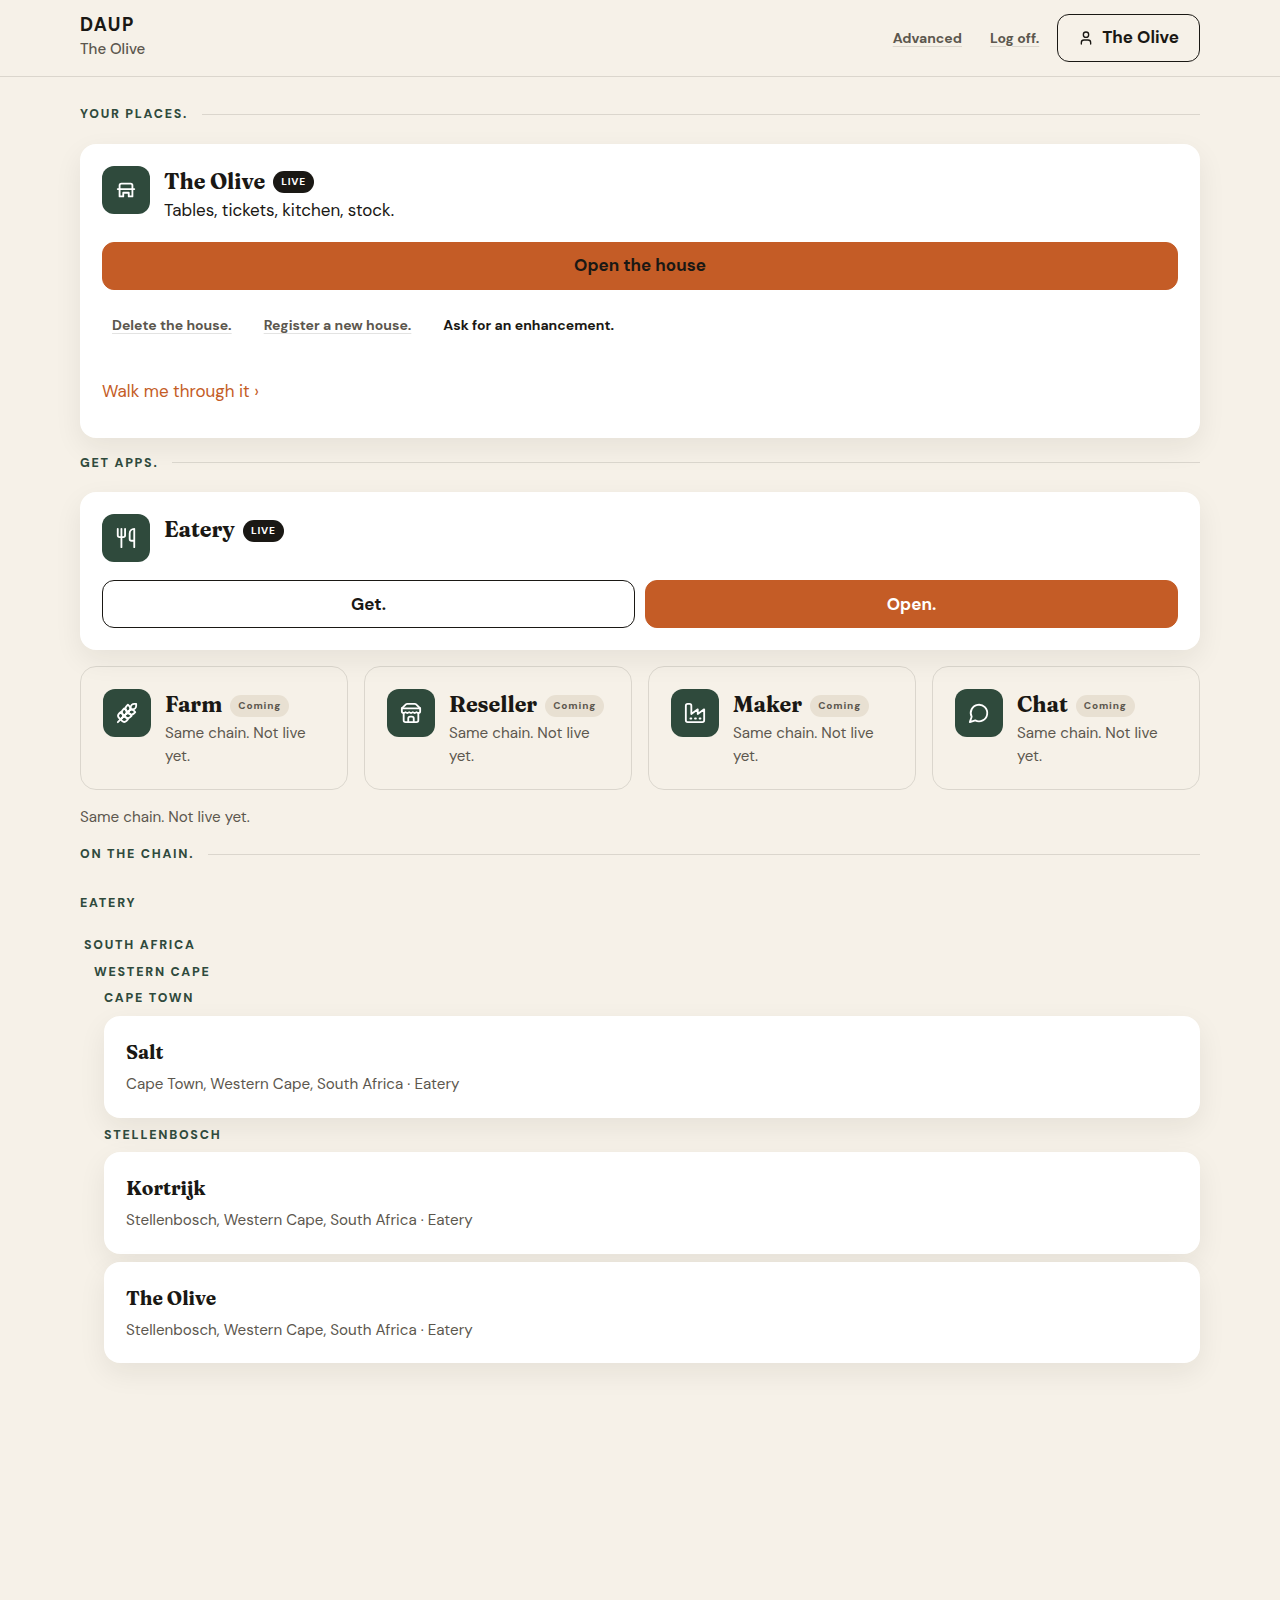
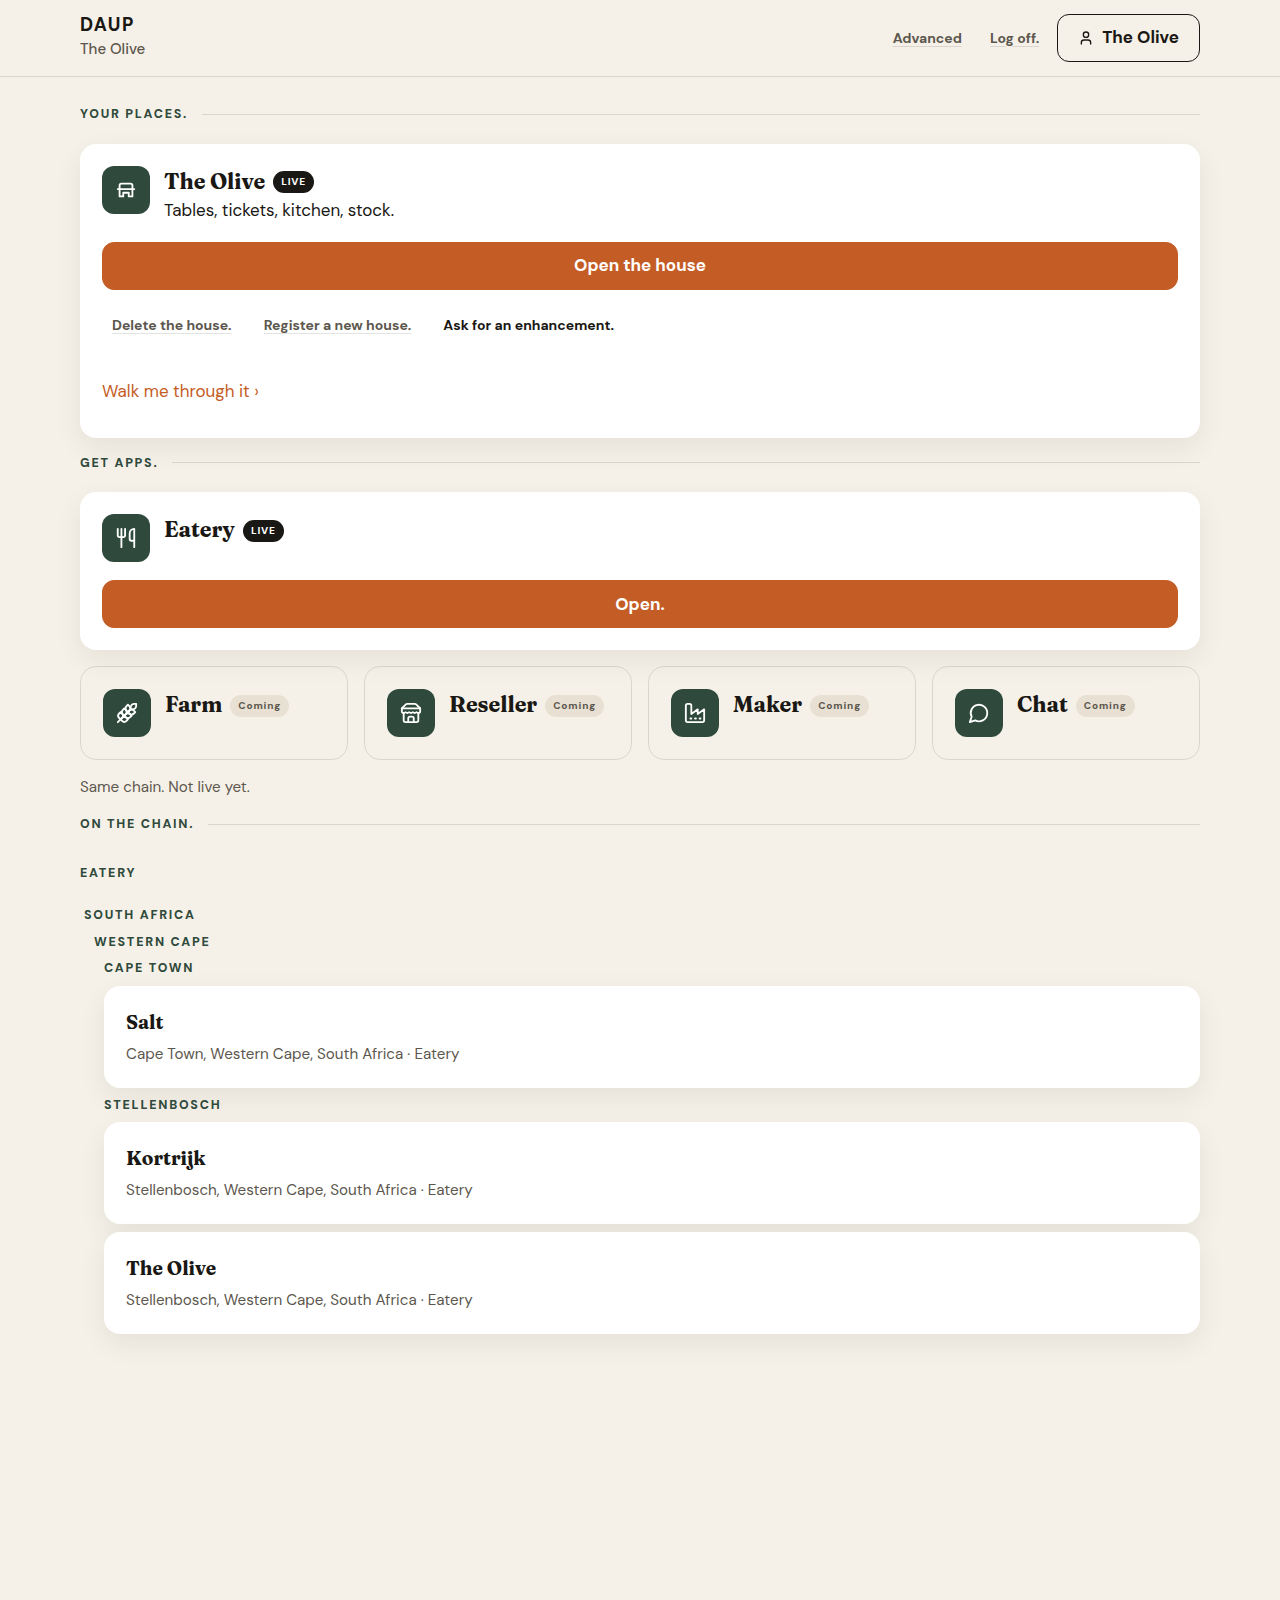
Hub UX punches: drop meta, white menu, Open. when held
Public card is Back / name / line / See the menu. / Reserve a table.
See the menu. is white on terracotta. Held live apps show Open. only.
Same chain. Not live yet. once under Coming.

diff --git a/daup-frontend-edge/src/components/HubHome.test.tsx b/daup-frontend-edge/src/components/HubHome.test.tsx
@@ -4,6 +4,7 @@ import { createRoot } from 'react-dom/client';
 import { act } from 'react';
 import { Simulate } from 'react-dom/test-utils';
 import { SubscribedAppsView } from './SubscribedAppsView';
+import { GetAppsSection } from './GetApps';
 import { UserProfileProvider } from '../context/UserProfileContext';
 import {
   saveIdentityVault,
@@ -159,9 +160,10 @@ describe('hub home after email', () => {
     expect(container.textContent).toContain(YOUR_PLACES_KICKER);
     const shop = container.querySelector('[data-testid="get-apps"]');
     expect(shop?.textContent).toContain(GET_APPS_KICKER);
-    expect(shop?.textContent).toContain(GET_LABEL);
     expect(shop?.textContent).toContain(OPEN_LABEL);
     expect(shop?.querySelector('[data-testid="shop-app-eatery"]')?.textContent).toContain('Eatery');
+    expect(shop?.querySelector('[data-testid="get-app-eatery"]')).toBeNull();
+    expect(shop?.querySelector('[data-testid="open-app-eatery"]')?.textContent).toBe(OPEN_LABEL);
     expect(shop?.querySelector('[data-testid="subscribe-app-eatery"]')).toBeNull();
     const other = container.querySelector('[data-testid="other-apps"]');
     expect(other?.textContent).toContain('Farm');
@@ -268,8 +270,13 @@ describe('hub home after email', () => {
     const menu = container.querySelector('[data-testid="see-the-menu"]') as HTMLAnchorElement | null;
     const reserve = container.querySelector('[data-testid="reserve-a-table"]') as HTMLAnchorElement | null;
     expect(card?.textContent).toContain('The Olive');
+    expect(card?.textContent).toContain('Stellenbosch, Western Cape, South Africa · Eatery');
+    expect(card?.textContent).toContain('Back.');
+    expect(card?.textContent).not.toContain('Open the public card.');
+    expect(card?.textContent).not.toContain('Pay at the table.');
     expect(menu?.textContent).toBe(SEE_THE_MENU_LABEL);
     expect(reserve?.textContent).toBe(RESERVE_A_TABLE_LABEL);
+    expect(menu?.className).toContain('btn-primary');
     expect(menu?.getAttribute('href')).toBe('https://eatout.daup.co.za/place/the-olive#menu');
     expect(reserve?.getAttribute('href')).toBe('https://eatout.daup.co.za/place/the-olive#book');
     expect(menu?.getAttribute('data-eatout-id')).toBe('the-olive');
@@ -310,11 +317,34 @@ describe('hub home after email', () => {
     expect(other?.textContent).not.toMatch(/Subscribe/i);
     expect(other?.textContent).not.toMatch(/Subscribed/i);
     expect(container.querySelector('[data-testid="coming-app-farm"]')?.textContent).not.toMatch(/Subscribe/i);
-    expect(container.querySelector('[data-testid="shop-app-eatery"]')?.textContent).toContain(GET_LABEL);
+    expect(container.querySelector('[data-testid="coming-app-farm"]')?.textContent).not.toContain(SAME_CHAIN_CAPTION);
     expect(container.querySelector('[data-testid="shop-app-eatery"]')?.textContent).toContain(OPEN_LABEL);
+    expect(container.querySelector('[data-testid="shop-app-eatery"]')?.textContent).not.toContain(GET_LABEL);
+    expect(container.querySelector('[data-testid="get-app-eatery"]')).toBeNull();
     expect(container.querySelector('[data-testid="subscribe-app-eatery"]')).toBeNull();
     expect(container.textContent).not.toMatch(/Subscribed/i);
     expect(container.textContent).not.toContain('Marketplace');
+    const captions = Array.from(container.querySelectorAll('[data-testid="get-apps"] .caption, [data-testid="coming-app-farm"] .caption'))
+      .map(node => node.textContent)
+      .filter(text => text === SAME_CHAIN_CAPTION);
+    expect(container.querySelectorAll('[data-testid="same-chain-caption"]').length).toBe(1);
+    expect(captions.length).toBeLessThanOrEqual(1);
+    unmount();
+  });
+
+  it('shows Get. only when a live app is not held', () => {
+    const { container, unmount } = render(
+      <GetAppsSection
+        hasHouse={false}
+        installedApps={{}}
+        onGet={() => undefined}
+        onOpen={() => undefined}
+        onSubscribe={() => undefined}
+      />
+    );
+    expect(container.querySelector('[data-testid="get-app-eatery"]')?.textContent).toBe(GET_LABEL);
+    expect(container.querySelector('[data-testid="open-app-eatery"]')).toBeNull();
+    expect(container.querySelector('[data-testid="subscribe-app-eatery"]')?.textContent).toBe('Subscribe');
     unmount();
   });
 

diff --git a/daup-frontend-edge/src/components/GetApps.tsx b/daup-frontend-edge/src/components/GetApps.tsx
@@ -65,24 +65,25 @@ export function GetAppsSection({
               </div>
               <div className="shop-app-actions">
                 {!held ? (
-                  <button
-                    type="button"
-                    className="btn btn-outline btn-wide"
-                    data-testid={`subscribe-app-${app.id}`}
-                    onClick={() => onSubscribe(app)}
-                  >
-                    {SUBSCRIBE_LABEL}
-                  </button>
-                ) : null}
-                <button
-                  type="button"
-                  className="btn btn-outline btn-wide"
-                  data-testid={`get-app-${app.id}`}
-                  onClick={() => onGet(app)}
-                >
-                  {GET_LABEL}
-                </button>
-                {held ? (
+                  <>
+                    <button
+                      type="button"
+                      className="btn btn-outline btn-wide"
+                      data-testid={`subscribe-app-${app.id}`}
+                      onClick={() => onSubscribe(app)}
+                    >
+                      {SUBSCRIBE_LABEL}
+                    </button>
+                    <button
+                      type="button"
+                      className="btn btn-primary btn-wide"
+                      data-testid={`get-app-${app.id}`}
+                      onClick={() => onGet(app)}
+                    >
+                      {GET_LABEL}
+                    </button>
+                  </>
+                ) : (
                   <button
                     type="button"
                     className="btn btn-primary btn-wide"
@@ -91,7 +92,7 @@ export function GetAppsSection({
                   >
                     {OPEN_LABEL}
                   </button>
-                ) : null}
+                )}
               </div>
             </article>
           );
@@ -115,7 +116,6 @@ export function GetAppsSection({
                   <h3>
                     {app.title} <span className="coming-flag">{COMING_KICKER}</span>
                   </h3>
-                  <p className="caption">{SAME_CHAIN_CAPTION}</p>
                 </div>
               </div>
             </article>

diff --git a/daup-frontend-edge/src/hub/copy.ts b/daup-frontend-edge/src/hub/copy.ts
@@ -40,7 +40,6 @@ export const SEE_THE_MENU_LABEL = 'See the menu.';
 export const RESERVE_A_TABLE_LABEL = 'Reserve a table.';
 export const CHAIN_BACK_LABEL = 'Back.';
 export const CHAIN_APP_CHAT = 'Chat';
-export const PUBLIC_PLACE_BODY = 'Open the public card. Pay at the table.';
 export const EATERY_ROW_BODY = 'Tables, tickets, kitchen, stock.';
 export const HUB_HOME_FALLBACK = 'Your hub';
 export const LOG_OFF_LABEL = 'Log off.';
@@ -115,7 +114,6 @@ export const HUB_HOME_COPY = [
   SEE_THE_MENU_LABEL,
   RESERVE_A_TABLE_LABEL,
   CHAIN_BACK_LABEL,
-  PUBLIC_PLACE_BODY,
   LOG_OFF_LABEL,
   DELETE_THE_HOUSE_LABEL,
   REGISTER_A_NEW_HOUSE_LABEL,

diff --git a/daup-frontend-edge/src/components/OnTheChain.tsx b/daup-frontend-edge/src/components/OnTheChain.tsx
@@ -3,7 +3,6 @@ import {
   CHAIN_BACK_LABEL,
   ON_THE_CHAIN_EMPTY,
   ON_THE_CHAIN_KICKER,
-  PUBLIC_PLACE_BODY,
   RESERVE_A_TABLE_LABEL,
   SAME_CHAIN_CAPTION,
   SEE_THE_MENU_LABEL
@@ -118,7 +117,6 @@ function PublicPlaceCard({
       <p>{[chainPlaceWhere(place), chainAppLabel(place.app)].filter(Boolean).join(' · ')}</p>
       {isEatery ? (
         <>
-          <p className="caption">{PUBLIC_PLACE_BODY}</p>
           <div className="place-public-actions">
             <a
               className="btn btn-primary btn-wide"

diff --git a/daup-frontend-edge/src/owner.css b/daup-frontend-edge/src/owner.css
@@ -35,6 +35,13 @@ body {
   text-decoration: none;
 }
 
+.owner-shell a.btn-primary,
+.owner-wizard a.btn-primary,
+.owner-hydrate a.btn-primary,
+.hub-door a.btn-primary {
+  color: #fff;
+}
+
 .wrap {
   width: min(var(--max), calc(100% - 40px));
   margin: 0 auto;
